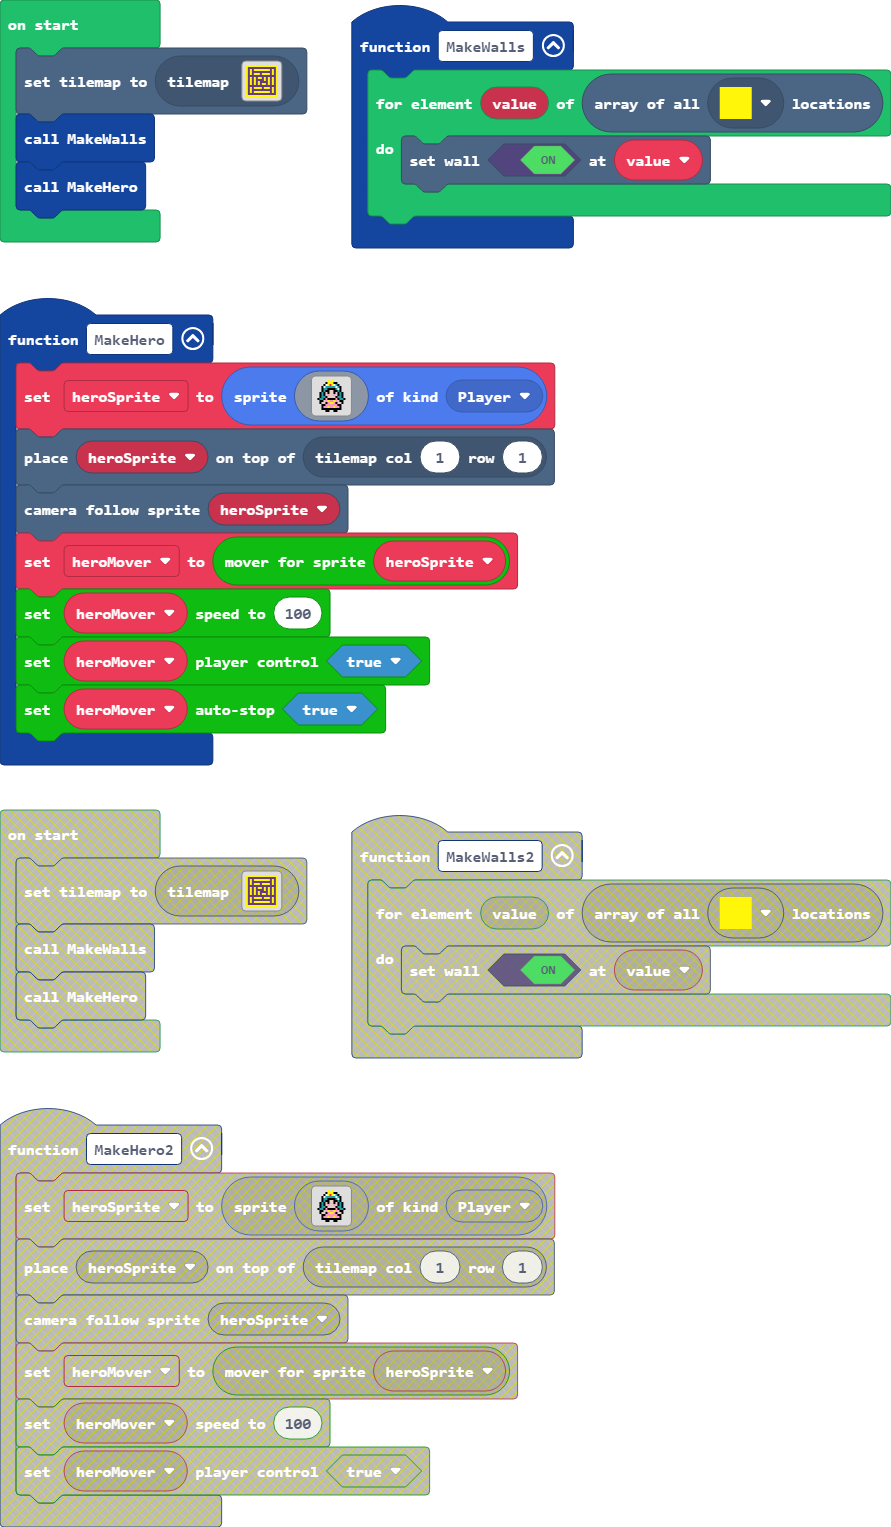
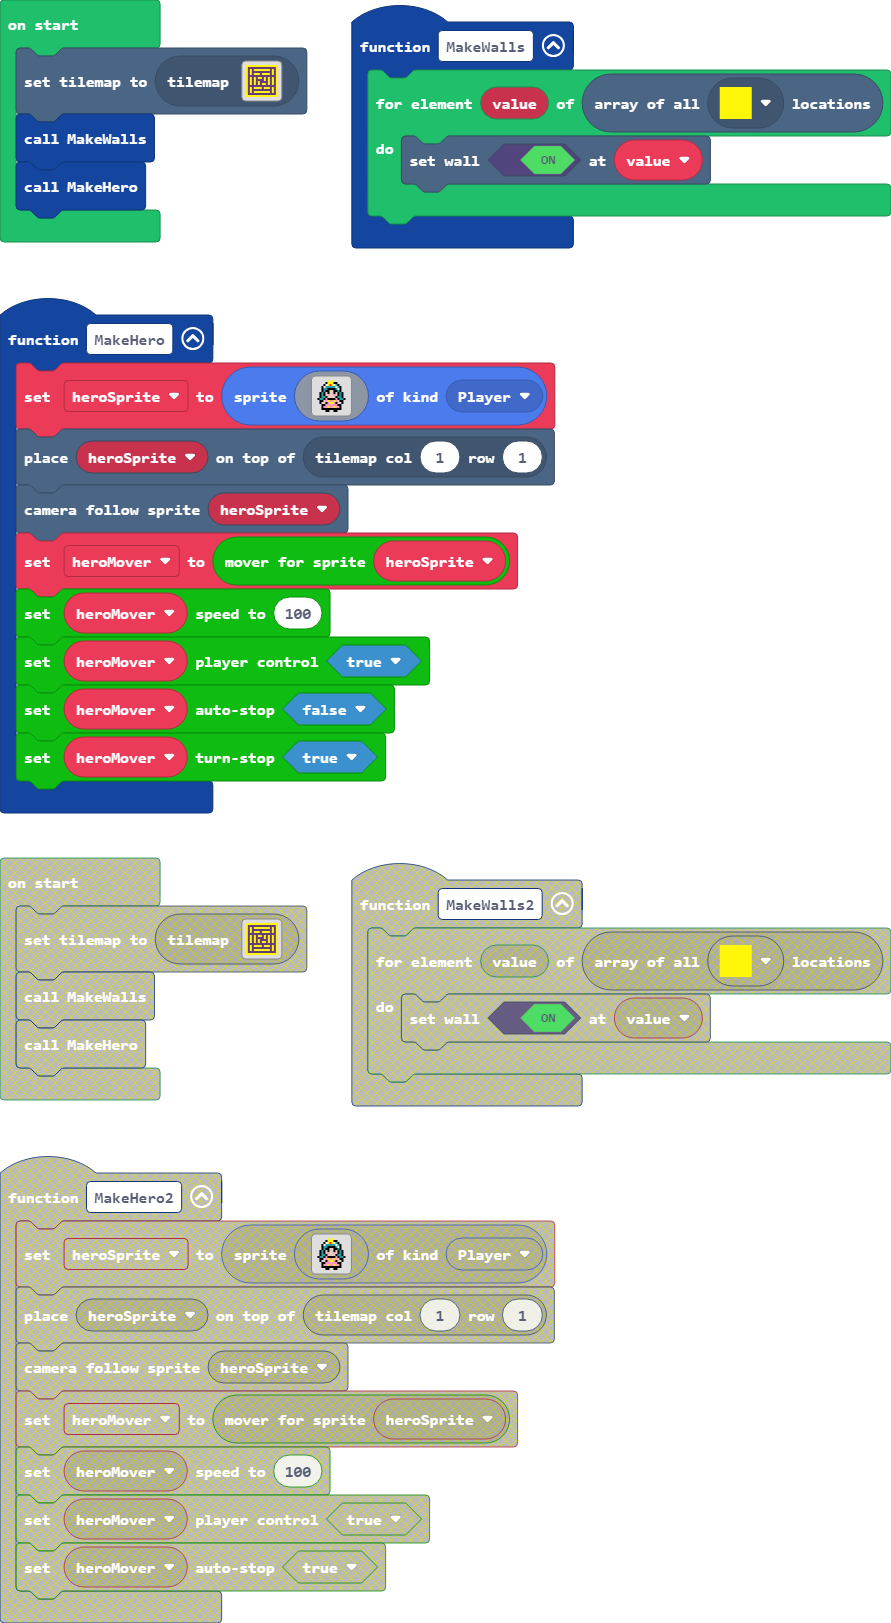
Setting to prevent stopping by turning into a wall

diff --git a/custom.ts b/custom.ts
@@ -43,15 +43,18 @@ namespace gridmove {
         _speed: number
         _playerControl: boolean
         _autoStop: boolean
+        _turnStop: boolean
         _request: Direction
         _x: number
         _y: number
+        _loc: tiles.Location
         
         constructor(sprite: Sprite) {
             this._sprite = sprite;
             this._speed = 100
             this._playerControl = false
             this._autoStop = false
+            this._turnStop = false
             this._request = Direction.None
             this._x = sprite.x
             this._y = sprite.y
@@ -83,6 +86,19 @@ namespace gridmove {
             }
         }
 
+        private canMove(direction: CollisionDirection): boolean {
+            if (this._turnStop)
+            {
+                // Can't move in requested direction if there's a wall there
+                const neighbor = this._loc.getNeighboringLocation(direction)
+                if (neighbor)
+                {
+                    return !neighbor.isWall()
+                }
+            }
+            return true
+        }
+
         private updateMovement() {
             const tileSize = 16
 
@@ -93,35 +109,32 @@ namespace gridmove {
             const lx = this._x
             const ly = this._y
 
-            // which tile are we in
-            const tx = Math.floor(x / tileSize)
-            const ty = Math.floor(y / tileSize)
-
-            // centre of the tile
-            const cx = (tx + 0.5) * tileSize
-            const cy = (ty + 0.5) * tileSize
+            // Get the current tile
+            this._loc = this._sprite.tilemapLocation()
+            const tx = this._loc.x
+            const ty = this._loc.y
 
             // are we at mid point of the tile
             let midx = true
             let midy = true
             if (vx > 0) {
-                midx = (lx < cx && x >= cx) // crossing cx
+                midx = (lx < tx && x >= tx) // crossing tx
             } else if (vx < 0) {
-                midx = (lx > cx && x <= cx) // crossing cx
+                midx = (lx > tx && x <= tx) // crossing tx
             } else if (vy > 0) {
-                midy = (ly < cy && y >= cy) // crossing cy
+                midy = (ly < ty && y >= ty) // crossing ty
             } else if (vy < 0) {
-                midy = (ly > cy && y <= cy) // crossing cy
+                midy = (ly > ty && y <= ty) // crossing ty
             }
 
             const canStop = this._autoStop || (this._request == Direction.Stop)
 
             // moving in x or middle of y
             if (vx != 0 || midy) {
-                if (this._request == Direction.Right) {
+                if (this._request == Direction.Right && this.canMove(CollisionDirection.Right)) {
                     this._sprite.vx = this._speed
                     this._sprite.vy = 0
-                } if (this._request == Direction.Left) {
+                } if (this._request == Direction.Left && this.canMove(CollisionDirection.Left)) {
                     this._sprite.vx = -this._speed
                     this._sprite.vy = 0
                 } else if (canStop && vx != 0 && midx) {
@@ -131,10 +144,10 @@ namespace gridmove {
             }
             // moving in y or middle of x
             if (vy != 0 || midx) {
-                if (this._request == Direction.Up) {
+                if (this._request == Direction.Up && this.canMove(CollisionDirection.Top)) {
                     this._sprite.vx = 0
                     this._sprite.vy = -this._speed
-                } else if (this._request == Direction.Down) {
+                } else if (this._request == Direction.Down && this.canMove(CollisionDirection.Bottom)) {
                     this._sprite.vx = 0
                     this._sprite.vy = this._speed
                 } else if (canStop && vy != 0 && midy) {
@@ -145,10 +158,10 @@ namespace gridmove {
 
             // ensure centered in non-moving direction(s)
             if (this._sprite.vx == 0) {
-                this._sprite.x = cx
+                this._sprite.x = tx
             }
             if (this._sprite.vy == 0) {
-                this._sprite.y = cy
+                this._sprite.y = ty
             }
 
             this._x = this._sprite.x
@@ -174,6 +187,13 @@ namespace gridmove {
         //% this.defl=myMover
         public autoStop(enable: boolean = true) {
             this._autoStop = enable
+        }
+
+        //% group="Movement"
+        //% block="set $this turn-stop $enable"
+        //% this.defl=myMover
+        public turnStop(enable: boolean = true) {
+            this._turnStop = enable
         }
      }
 

diff --git a/main.ts b/main.ts
@@ -27,7 +27,8 @@ function MakeHero () {
     heroMover = gridmove.create(heroSprite)
     heroMover.speed(100)
     heroMover.playerControl(true)
-    heroMover.autoStop(true)
+    heroMover.autoStop(false)
+    heroMover.turnStop(true)
 }
 let heroMover: gridmove.Mover = null
 let heroSprite: Sprite = null
